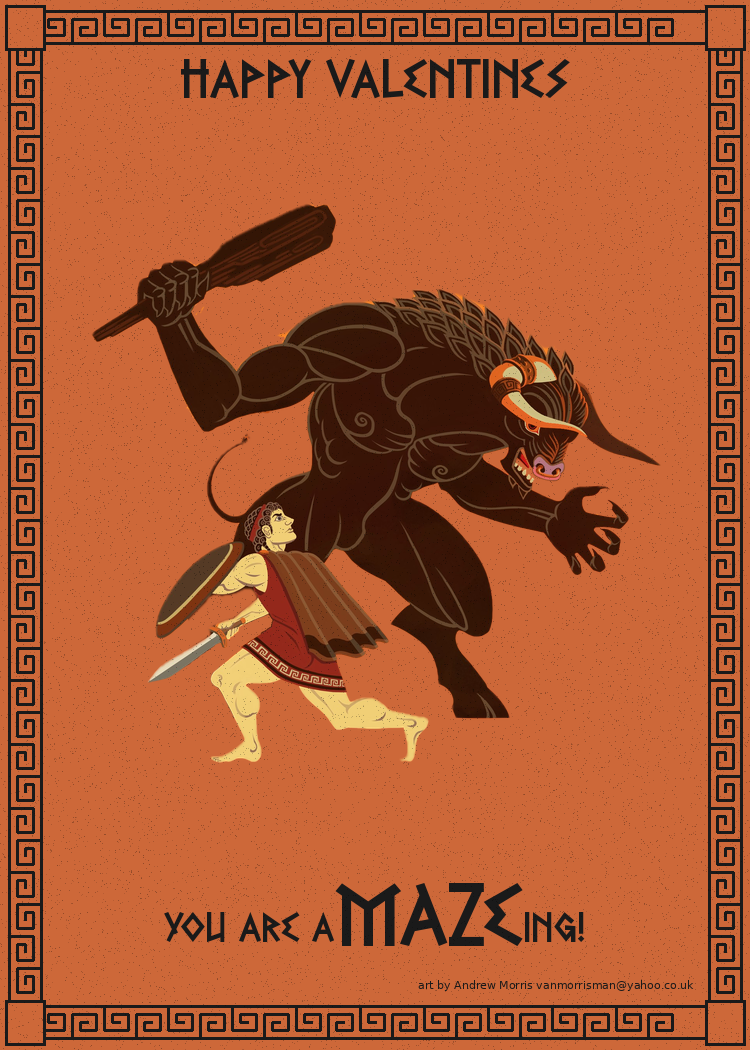
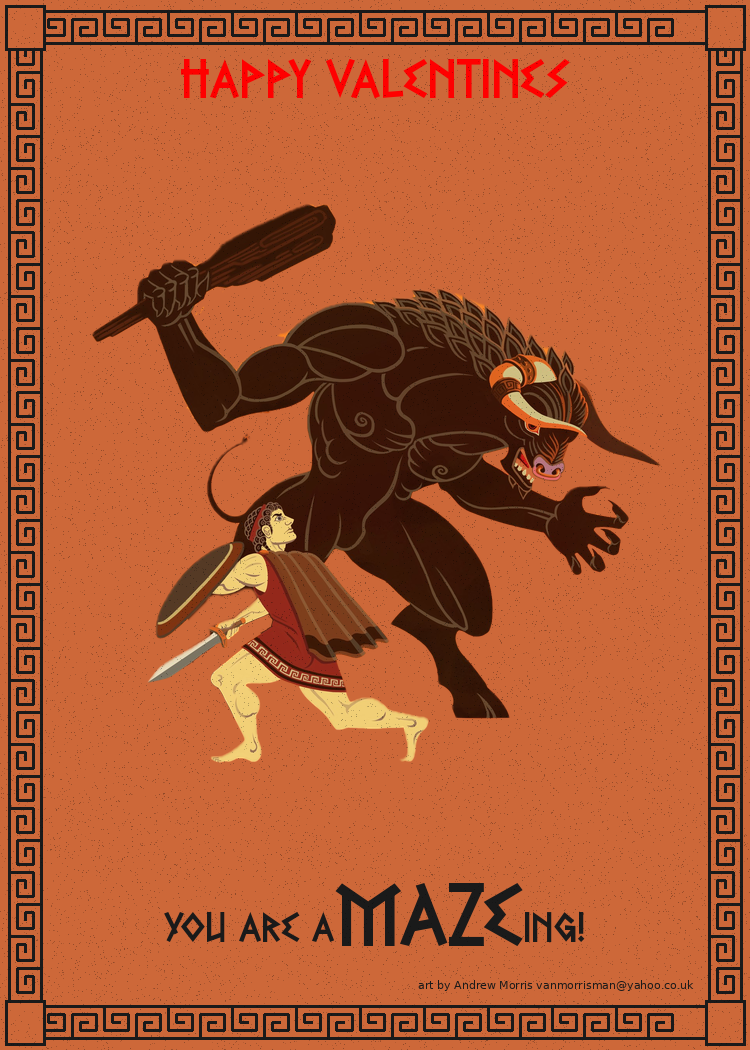
Happy Valentines: 63pt black, positioned at y=56

Changed region(s): [[0.2453, 0.0305, 0.7667, 0.1219]]

diff --git a/src/greek_design_system.py b/src/greek_design_system.py
@@ -464,7 +464,7 @@ def generate_greek_card_front(
 
     # Add "Happy Valentines" at the top (AFTER minotaur so it's not covered)
     try:
-        top_font = ImageFont.truetype(greek_font_path, 55)  # 15% bigger than 48
+        top_font = ImageFont.truetype(greek_font_path, 63)  # 15% bigger than 55
     except:
         top_font = ImageFont.load_default()
 
@@ -473,7 +473,7 @@ def generate_greek_card_front(
     top_text_width = top_bbox[2] - top_bbox[0]
     top_x = (width - top_text_width) // 2
     top_y = 56  # Just below border
-    draw.text((top_x, top_y), top_text, fill="#FF0000", font=top_font)  # RED for testing
+    draw.text((top_x, top_y), top_text, fill=PALETTE.black, font=top_font)
 
     # Add Valentine's greeting in center-bottom area
 
